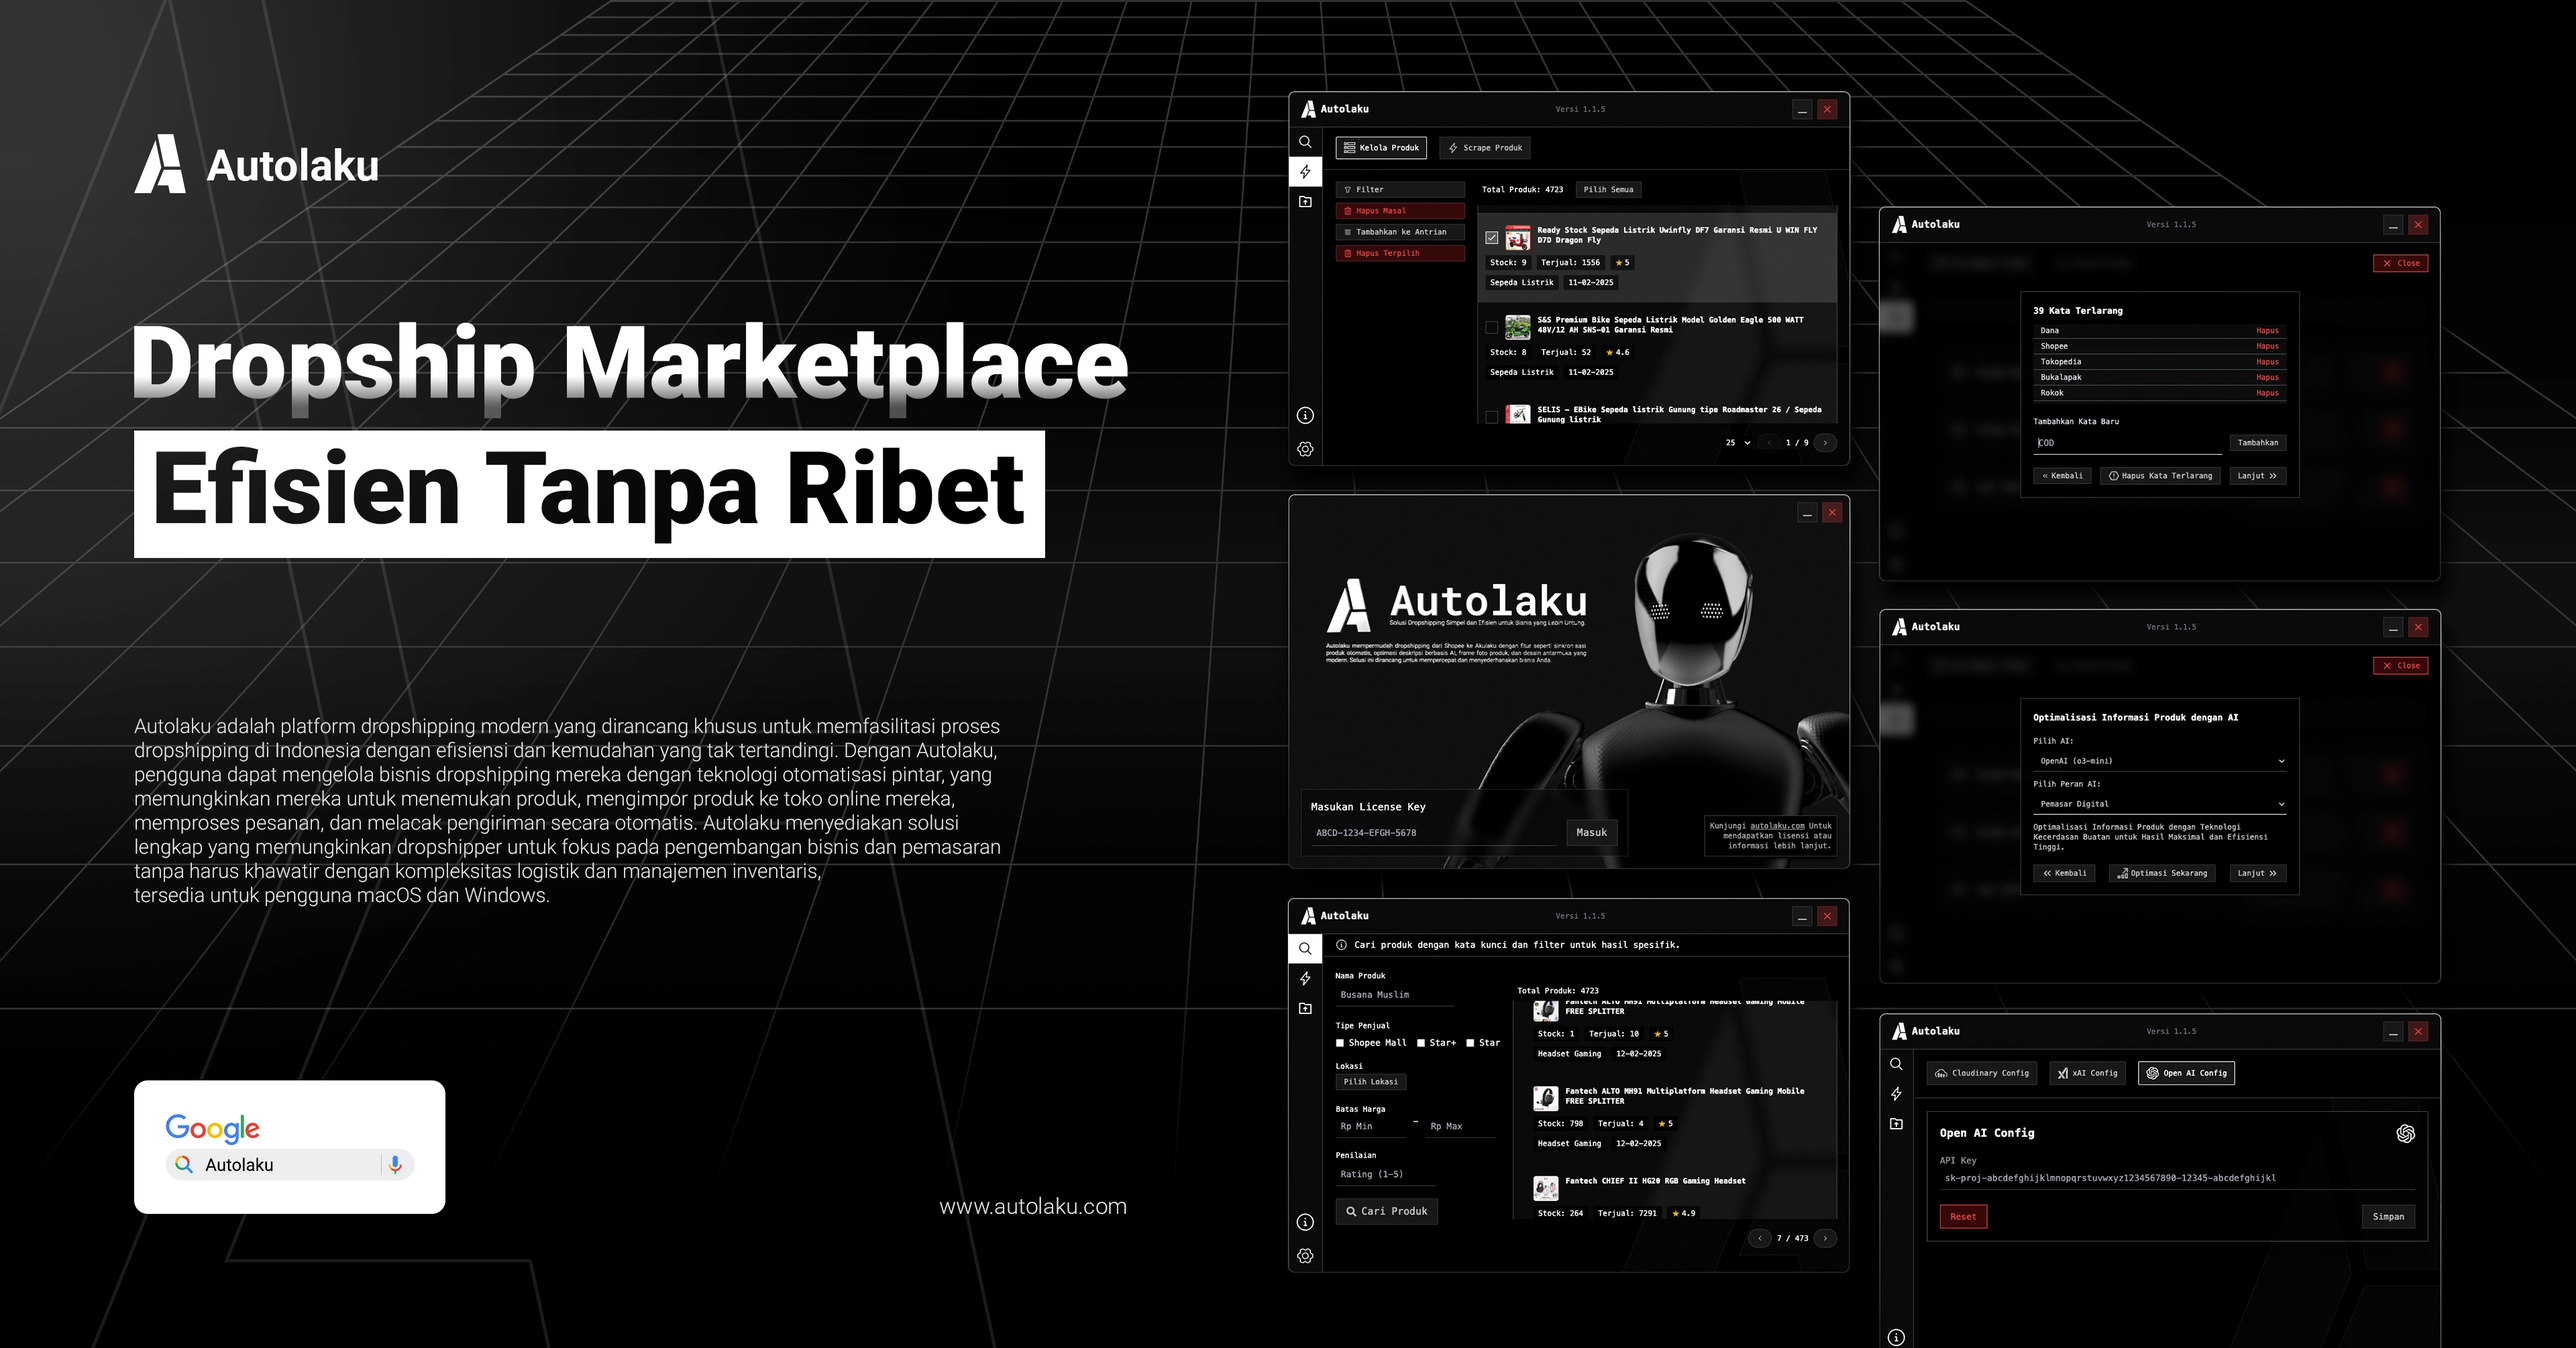
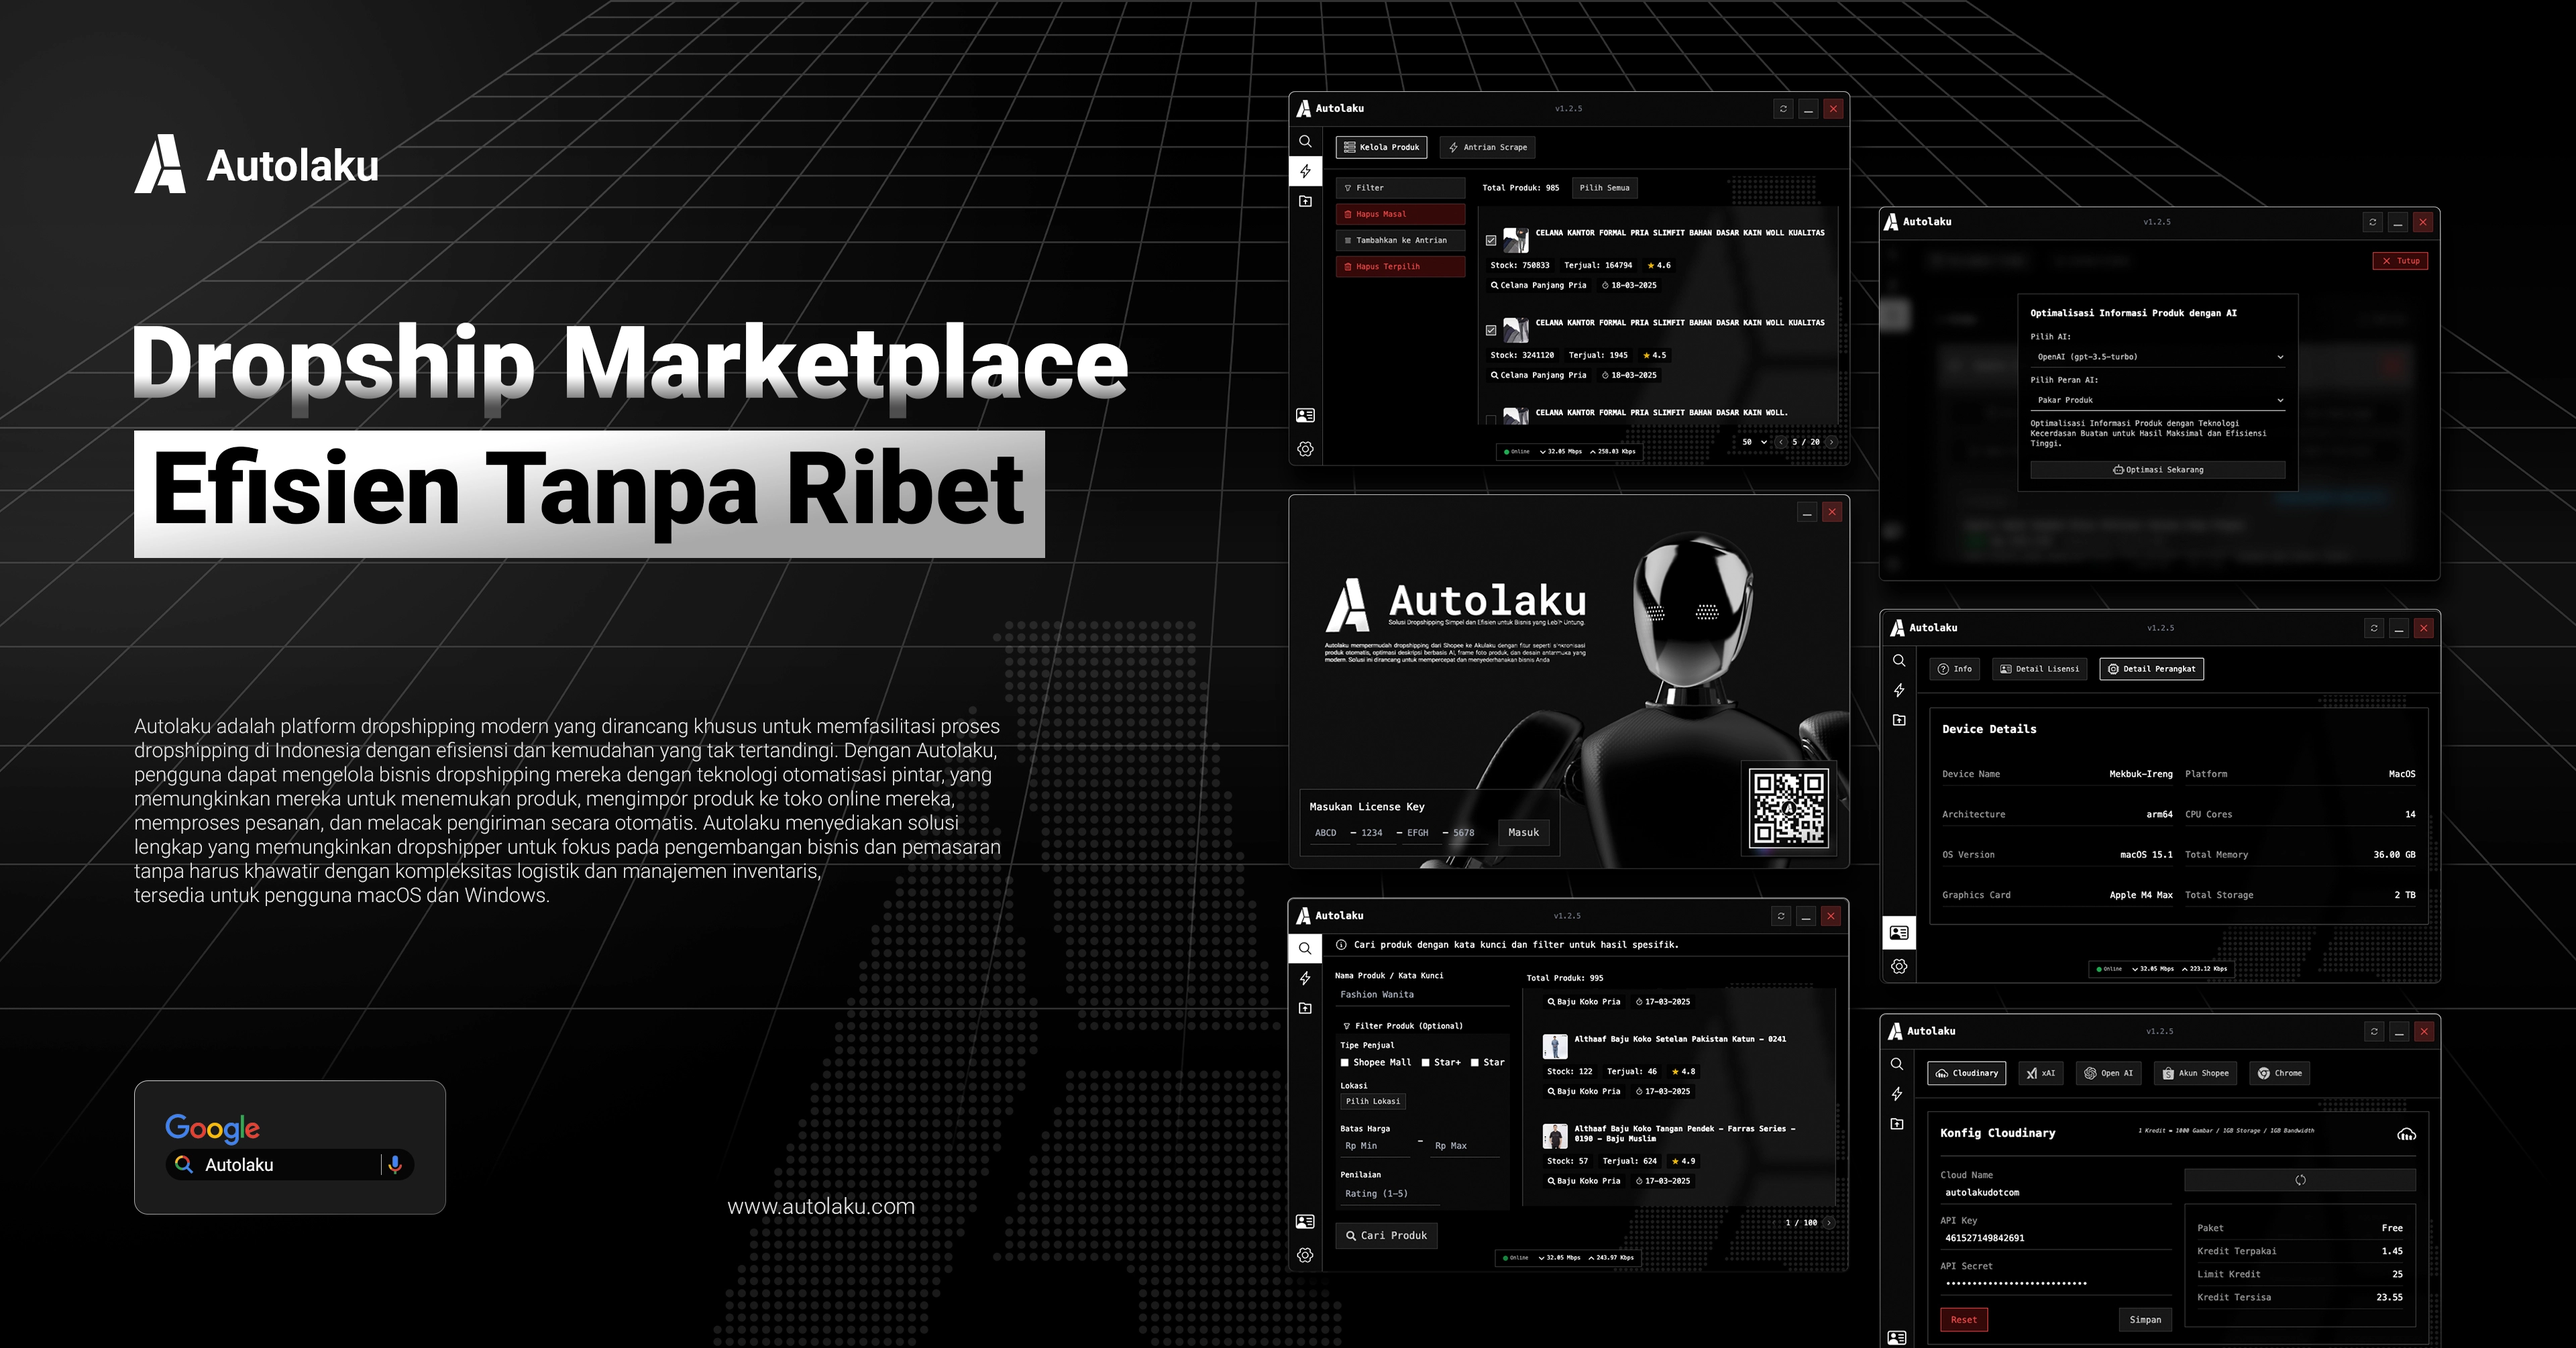
623423623452734545

diff --git a/constans/index.tsx b/constans/index.tsx
@@ -1,3 +1,4 @@
+/* eslint-disable @typescript-eslint/no-unused-vars */
 import { MdFormatQuote } from 'react-icons/md';
 import {
   IoMdDocument,
@@ -10,14 +11,16 @@ import {
 } from 'react-icons/io';
 import { BsShield } from 'react-icons/bs';
 import { LiaFileContractSolid } from 'react-icons/lia';
+
 import AIConfig from '@/assets/images/Screenshot-AI-Config.webp';
-import OptimasiInformasiProduk from '@/assets/images/Screenshot-AI-Optimasi-Informasi-Produk.webp';
-import ScreenshotAntrianScrape from '@/assets/images/Screenshot-Antrian-Scrape.webp';
+import AIOptimalisasi from '@/assets/images/AIOptimalisasi.webp';
+import AntrianScrape from '@/assets/images/AntrianScrape.webp';
 import AturKeuntungan from '@/assets/images/Screenshot-Atur-Keuntungan.webp';
 import HapusKataTerlarang from '@/assets/images/Screenshot-Hapus-Kata-Terlarang.webp';
-import KelolaProduk from '@/assets/images/Screenshot-Kelola-Produk.webp';
-import LoginAutolaku from '@/assets/images/Screenshot-Login-Autolaku.webp';
-import PencarianProduk from '@/assets/images/Screenshot-Pencarian-Produk.webp';
+import KelolaProduk from '@/assets/images/KelolaProduk.webp';
+import Login from '@/assets/images/Login.webp';
+import PencarianProduk from '@/assets/images/CariProduk.webp';
+
 import grok from '@/assets/icons/grok.webp';
 import xai from '@/assets/icons/xai.webp';
 import shopee from '@/assets/icons/shopee.webp';
@@ -93,7 +96,7 @@ export const autolakuScreenshots = [
   {
     title: 'Halaman Masuk Autolaku',
     description: 'Akses cepat dan aman untuk memulai pengalaman dropshipping Anda.',
-    image: LoginAutolaku,
+    image: Login,
   },
   {
     title: 'Pencarian Produk',
@@ -110,31 +113,32 @@ export const autolakuScreenshots = [
     title: 'Antrian Scrape',
     description:
       'Menyusun folder secara terstruktur untuk memudahkan pengambilan detail data produk yang rapi dan mudah dipahami oleh manajemen.',
-    image: ScreenshotAntrianScrape,
+    image: AntrianScrape,
   },
-  {
-    title: 'Atur Keuntungan',
-    description: 'Sesuaikan persentase margin keuntungan Anda dengan fleksibilitas penuh.',
-    image: AturKeuntungan,
-  },
-  {
-    title: 'Hapus Kata Terlarang',
-    description:
-      'Hapus kata-kata sensitif untuk memastikan listing produk aman dan sesuai dengan regulasi marketplace.',
-    image: HapusKataTerlarang,
-  },
+  ///Atur Keuntungan
+  // {
+  //   title: 'Atur Keuntungan',
+  //   description: 'Sesuaikan persentase margin keuntungan Anda dengan fleksibilitas penuh.',
+  //   image: AturKeuntungan,
+  // },
+  // {
+  //   title: 'Hapus Kata Terlarang',
+  //   description:
+  //     'Hapus kata-kata sensitif untuk memastikan listing produk aman dan sesuai dengan regulasi marketplace.',
+  //   image: HapusKataTerlarang,
+  // },
   {
     title: 'Optimasi Informasi Produk',
     description:
       'Tingkatkan daya tarik produk Anda dengan informasi yang dioptimalkan oleh kecerdasan buatan (AI) hanya dalam satu klik.',
-    image: OptimasiInformasiProduk,
+    image: AIOptimalisasi,
   },
-  {
-    title: 'AI Konfigurasi',
-    description:
-      'Sesuaikan pengaturan AI untuk meningkatkan performa dropshipping yang lebih cerdas dan personal, yang telah terintegrasi dengan xAI dan OpenAI.',
-    image: AIConfig,
-  },
+  // {
+  //   title: 'AI Konfigurasi',
+  //   description:
+  //     'Sesuaikan pengaturan AI untuk meningkatkan performa dropshipping yang lebih cerdas dan personal, yang telah terintegrasi dengan xAI dan OpenAI.',
+  //   image: AIConfig,
+  // },
 ];
 
 export const ADotted = (

diff --git a/components/auth/Daftar.tsx b/components/auth/Daftar.tsx
@@ -225,18 +225,18 @@ const Daftar = () => {
                   </button>
                 </div>
               </div>
-              {/* <button
+              <button
                 type="button"
                 onClick={handleContinue}
                 className="bg-white text-sm lg:text-base text-black font-bold py-2 px-4 rounded w-full">
                 Lanjutkan Pendaftaran
-              </button> */}
-              <button
+              </button>
+              {/* <button
                 type="button"
                 disabled
                 className="bg-white text-sm lg:text-base text-black font-bold py-2 px-4 rounded w-full cursor-not-allowed opacity-65">
                 Untuk Sementara <br className="lg:hidden" /> Pendaftaran Ditutup
-              </button>
+              </button> */}
             </>
           )}
 
@@ -333,7 +333,7 @@ const Daftar = () => {
                   Kembali
                 </button>
                 <button
-                  type="button" // Changed to type="button" to prevent form submission on enter key
+                  type="button"
                   onClick={handleSubmit}
                   className={`text-sm lg:text-base font-bold py-2 px-4 rounded ${
                     loading ? 'bg-dark-600 text-white' : 'bg-white text-black'

diff --git a/components/sections/HeroSection.tsx b/components/sections/HeroSection.tsx
@@ -17,15 +17,15 @@ const HeroSection = () => {
   const [currentIndex, setCurrentIndex] = useState(0);
   const swiperRef = useRef<SwiperType | null>(null);
   return (
-    <section aria-label="Hero Section" className="relative w-full min-h-screen bg-black">
+    <section aria-label="Hero Section" className="relative w-full min-h-screen bg-black ">
       <Image
         src={grid}
-        alt="Background grid pattern"
+        alt="Autolaku Asset"
         fill
         className="absolute inset-0 opacity-20 pointer-events-none object-cover"
         loading="lazy"
       />
-      <div className="max-w-screen-xl mx-auto flex flex-col lg:items-start justify-start min-h-screen text-center text-white z-10 pt-24 px-5 lg:px-0 lg:mt-40">
+      <div className="max-w-screen-xl mx-auto flex flex-col lg:items-start justify-start min-h-screen text-center text-white z-10 pt-24 px-5 2xl:px-0 lg:mt-40">
         <div className="flex flex-col lg:flex-row  lg:items-end justify-center items-center lg:justify-between w-full">
           <div className="flex flex-col justify-center ">
             <h1 className="lg:text-7xl md:text-5xl text-3xl lg:text-start font-extrabold mb-2 ">
